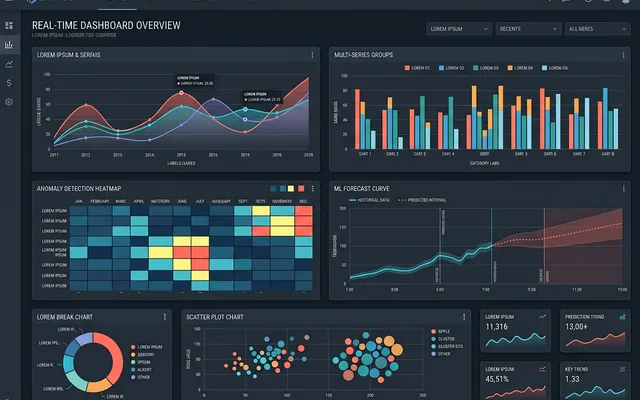
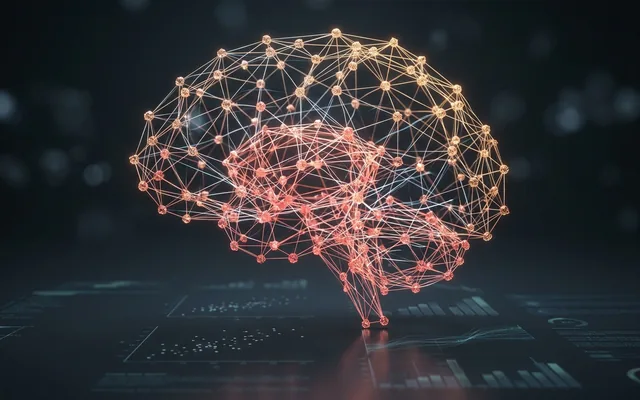
Add AI Solutions service with neural-network 3D object; exclude apps/
- New 'ai' service object (includes/service-objects.php): layered neural
  network — input/hidden/output nodes at staggered 3D depths, animated
  synapse web with traveling data pulses, pulsing AI core
- Index: featured full-width AI card with NEW badge + capability tags
- Services: 7th section 'AI Solutions & Automation' with full point list
- Footer: AI Solutions link added to services column
- Portfolio: 3 AI project images (FinSight, SmartBot, DataLens) replaced
  with neural-network style artwork in the brand palette
- Fix: objFloat now animates the independent 'translate' property so each
  service object's designed 3D rotation composes instead of being
  overridden (objects previously rendered front-facing/flat)
- Repo: apps/ (separate project) untracked and gitignored; sandbox-only
  dev toolchain gitignored under .dev-tools/

diff --git a/css/style.css b/css/style.css
@@ -998,6 +998,36 @@ html.no-js .services-net{display:none}
 }
 .svc-more:hover{gap:.65rem;filter:brightness(1.15)}
 
+/* — Featured AI card (index services grid) — */
+.svc-card.svc-ai-wide{
+  grid-column:1/-1;
+  display:grid;grid-template-columns:minmax(230px,300px) 1fr;gap:2rem;align-items:center;
+  padding:2.1rem 2.4rem;
+  background:linear-gradient(120deg,rgba(255,77,62,.1),rgba(255,150,72,.06) 52%,var(--glass));
+  border-color:rgba(255,122,92,.42);
+}
+.svc-card.svc-ai-wide::before{opacity:.75}
+.svc-ai-wide .svc-obj{margin:0;height:190px}
+.svc-ai-badge{
+  display:inline-block;vertical-align:.22em;margin-left:.45rem;
+  font-size:.58rem;font-weight:800;letter-spacing:.14em;text-transform:uppercase;
+  padding:.26rem .6rem;border-radius:100px;
+  background:linear-gradient(135deg,rgba(255,77,62,.25),rgba(255,182,72,.18));
+  border:1px solid rgba(255,122,92,.5);
+  -webkit-text-fill-color:var(--or-l);color:var(--or-l);
+  box-shadow:0 0 18px rgba(255,77,62,.25);
+}
+.svc-ai-tags{display:flex;gap:.5rem;flex-wrap:wrap;margin:.9rem 0 .2rem}
+.svc-ai-tags span{
+  font-size:.72rem;font-weight:600;padding:.3rem .75rem;border-radius:100px;
+  border:1px solid rgba(255,122,92,.32);color:var(--t2);background:rgba(255,77,62,.07);
+}
+@media(max-width:900px){
+  .svc-card.svc-ai-wide{grid-template-columns:1fr;text-align:center;padding:1.7rem 1.4rem}
+  .svc-ai-wide .svc-obj{height:150px}
+  .svc-ai-tags{justify-content:center}
+}
+
 /* ================================================================
    CSS-3D SERVICE OBJECTS (built in PHP, animated in CSS/JS)
    Each service has a distinct miniature 3D installation.
@@ -1012,7 +1042,9 @@ html.no-js .services-net{display:none}
   transform-style:preserve-3d;
 }
 .svc-obj .o3d>*{animation:objFloat 6s ease-in-out infinite}
-@keyframes objFloat{0%,100%{transform:translateY(0)}50%{transform:translateY(-7px)}}
+/* floats use the independent `translate` property so each object's own
+   3D rotation (`transform`) composes instead of being overridden */
+@keyframes objFloat{0%,100%{translate:0 0}50%{translate:0 -7px}}
 
 /* — Browser object (Web Development) — */
 .b3d{
@@ -1281,6 +1313,83 @@ html.no-js .services-net{display:none}
 }
 .svc-card:hover .shop3d{transform:rotateY(-7deg) rotateX(2deg) translateY(-4px)}
 .svc-card:hover .shop3d .sgrid i.on{transform:translateZ(22px)}
+
+/* — Neural network object (AI Solutions) — */
+.nn3d{
+  position:relative;width:150px;height:120px;
+  transform:rotateY(-18deg) rotateX(8deg);
+  transform-style:preserve-3d;
+  transition:transform .6s var(--te);
+}
+.nn3d .nn-core{
+  position:absolute;left:75px;top:60px;width:74px;height:74px;margin:-37px 0 0 -37px;
+  border-radius:50%;
+  background:radial-gradient(circle,rgba(255,122,92,.32) 0%,rgba(255,77,62,.1) 42%,transparent 70%);
+  filter:blur(1px);
+  animation:nnPulse 3.2s ease-in-out infinite;
+}
+.nn3d .nn-core::before,
+.nn3d .nn-core::after{
+  content:'';position:absolute;inset:-10px;border-radius:50%;
+  border:1px solid rgba(255,122,92,.35);
+  animation:nnRing 3.2s ease-out infinite;
+}
+.nn3d .nn-core::after{animation-delay:1.6s}
+@keyframes nnRing{from{transform:scale(.55);opacity:.9}to{transform:scale(1.7);opacity:0}}
+@keyframes nnPulse{0%,100%{opacity:.75}50%{opacity:1}}
+.nn3d .nn-web{position:absolute;inset:0;width:100%;height:100%;overflow:visible}
+.nn3d .nn-web line{
+  stroke:rgba(255,122,92,.2);stroke-width:1;
+  animation:nnNodeIn .9s ease both .2s;
+}
+.nn3d .nn-web line.hot{
+  stroke:url(#nnGrad);stroke-width:1.4;
+  stroke-dasharray:6 144;
+  animation:nnFlow 3s linear infinite;
+  filter:drop-shadow(0 0 3px rgba(255,122,92,.55));
+}
+@keyframes nnFlow{to{stroke-dashoffset:-150}}
+.nn3d .nn-node{
+  position:absolute;width:12px;height:12px;border-radius:50%;
+  background:radial-gradient(circle at 35% 35%,#ffd98a,var(--or));
+  border:1px solid rgba(255,182,72,.6);
+  box-shadow:0 0 12px rgba(255,77,62,.65),0 4px 10px rgba(0,0,0,.5);
+  animation:nnNodeIn .6s ease both;
+}
+@keyframes nnNodeIn{from{opacity:0;filter:brightness(2.6)}to{opacity:1;filter:brightness(1)}}
+.nn3d .nn-node.in1{left:10px;top:16px;transform:translateZ(8px);animation-delay:.15s}
+.nn3d .nn-node.in2{left:10px;top:54px;transform:translateZ(8px);animation-delay:.25s}
+.nn3d .nn-node.in3{left:10px;top:92px;transform:translateZ(8px);animation-delay:.35s}
+.nn3d .nn-node.h1,.nn3d .nn-node.h2,.nn3d .nn-node.h3,.nn3d .nn-node.h4{
+  width:17px;height:17px;margin:-2.5px 0 0 -2.5px;
+  background:radial-gradient(circle at 35% 35%,#ffe9c4,#ff8a5c);
+  border-color:rgba(255,138,92,.75);
+  box-shadow:0 0 18px rgba(255,77,62,.8),0 0 34px rgba(255,182,72,.25);
+  transform:translateZ(22px);
+  animation-delay:.45s;
+}
+.nn3d .nn-node.h1{left:67px;top:6px}
+.nn3d .nn-node.h2{left:67px;top:37px}
+.nn3d .nn-node.h3{left:67px;top:67px}
+.nn3d .nn-node.h4{left:67px;top:98px}
+.nn3d .nn-node.o1,.nn3d .nn-node.o2{
+  background:radial-gradient(circle at 35% 35%,#fff3dd,#ffb648);
+  border-color:rgba(255,182,72,.8);
+  box-shadow:0 0 16px rgba(255,182,72,.85),0 4px 10px rgba(0,0,0,.5);
+  transform:translateZ(36px);
+  animation-delay:.6s;
+}
+.nn3d .nn-node.o1{left:128px;top:30px}
+.nn3d .nn-node.o2{left:128px;top:78px}
+.nn3d .nn-node.h2,.nn3d .nn-node.o1{animation:nnNodeIn .6s ease both .45s,nnBlink 4s ease-in-out infinite 1.4s}
+.nn3d .nn-node.h4,.nn3d .nn-node.o2{animation:nnNodeIn .6s ease both .55s,nnBlink 4s ease-in-out infinite 2.6s}
+@keyframes nnBlink{0%,100%{filter:brightness(1)}50%{filter:brightness(1.75)}}
+.svc-card:hover .nn3d,.svc-figure:hover .nn3d{transform:rotateY(-9deg) rotateX(3deg)}
+.svc-card:hover .nn3d .nn-node,.svc-figure:hover .nn3d .nn-node{filter:brightness(1.5)}
+.svc-card:hover .nn3d .nn-node.h1,.svc-card:hover .nn3d .nn-node.h2,
+.svc-card:hover .nn3d .nn-node.h3,.svc-card:hover .nn3d .nn-node.h4,
+.svc-figure:hover .nn3d .nn-node.h1,.svc-figure:hover .nn3d .nn-node.h2,
+.svc-figure:hover .nn3d .nn-node.h3,.svc-figure:hover .nn3d .nn-node.h4{transform:translateZ(30px)}
 
 /* ================================================================
    PORTFOLIO — floating 3D project displays

diff --git a/services.php b/services.php
@@ -27,9 +27,13 @@ $services = [
    'desc'=>'Data-driven SEO and digital marketing campaigns that drive qualified traffic and deliver measurable ROI. We combine technical expertise with content strategy across all digital channels.',
    'points'=>['Technical & on-page SEO audits','Content strategy & creation','Google Ads & PPC management','Social media strategy & management','Monthly performance reporting']],
 
-  ['id'=>'shopify',  'obj'=>'shopify',  'icon'=>'🎨','title'=>'Shopify &amp; UI/UX Design',
+  ['id'=>'shopify',  'obj'=>'shopify', 'icon'=>'🎨','title'=>'Shopify &amp; UI/UX Design',
    'desc'=>'Expert Shopify development and user-centred design that blends aesthetics with functionality — intuitive interfaces that delight users and strengthen your brand at every touchpoint.',
    'points'=>['Custom Shopify themes & apps','Shopify Plus development','User research & persona mapping','Wireframing & interactive prototypes','Design systems & brand consistency']],
+
+  ['id'=>'ai',       'obj'=>'ai',      'icon'=>'🤖','title'=>'AI Solutions &amp; Automation',
+   'desc'=>'Intelligent systems that learn from your data and work alongside your team. From conversational chatbots and predictive analytics to computer vision and workflow automation — we design, train and deploy custom AI models that integrate natively with your products.',
+   'points'=>['AI chatbots & conversational NLP','Predictive analytics & forecasting','Computer vision & document processing','Custom ML model development','Workflow automation & AI integration']],
 ];
 ?>
 
@@ -44,7 +48,7 @@ $services = [
       <nav class="breadcrumb"><a href="index.php">Home</a><span class="sep"> › </span><span>Services</span></nav>
       <div class="eyebrow" style="margin:0 auto 1rem"><i class="fas fa-cogs"></i> What We Do</div>
       <h1 class="h1" style="margin-bottom:1rem">Our <span class="gradient-text">Services</span></h1>
-      <p class="lead" style="margin:0 auto">End-to-end digital solutions — from beautiful websites to enterprise software and e-commerce stores that convert.</p>
+      <p class="lead" style="margin:0 auto">End-to-end digital solutions — from beautiful websites to enterprise software, e-commerce stores and custom AI systems that convert.</p>
     </div>
   </div>
 </section>

diff --git a/includes/service-objects.php b/includes/service-objects.php
@@ -99,6 +99,33 @@ if (!function_exists('render_service_object')) {
            . '<div class="sbar"></div>'
            . '</div>';
         break;
+
+      /* ── AI Solutions — layered neural network ───────────── */
+      case 'ai':
+        echo '<div class="nn3d">'
+           . '<div class="nn-core" aria-hidden="true"></div>'
+           . '<svg class="nn-web" viewBox="0 0 150 120" preserveAspectRatio="none" aria-hidden="true">'
+           . '<defs><linearGradient id="nnGrad" x1="0" y1="0" x2="1" y2="0">'
+           . '<stop offset="0" stop-color="#ff4d3e"/><stop offset="1" stop-color="#ffb648"/>'
+           . '</linearGradient></defs>'
+           /* input → hidden */
+           . '<line x1="16" y1="22" x2="75" y2="14"/><line x1="16" y1="22" x2="75" y2="45"/>'
+           . '<line x1="16" y1="22" x2="75" y2="75" class="hot"/><line x1="16" y1="22" x2="75" y2="106"/>'
+           . '<line x1="16" y1="60" x2="75" y2="14"/><line x1="16" y1="60" x2="75" y2="45" class="hot"/>'
+           . '<line x1="16" y1="60" x2="75" y2="75"/><line x1="16" y1="60" x2="75" y2="106"/>'
+           . '<line x1="16" y1="98" x2="75" y2="14"/><line x1="16" y1="98" x2="75" y2="45"/>'
+           . '<line x1="16" y1="98" x2="75" y2="75"/><line x1="16" y1="98" x2="75" y2="106" class="hot"/>'
+           /* hidden → output */
+           . '<line x1="75" y1="14" x2="134" y2="36"/><line x1="75" y1="14" x2="134" y2="84"/>'
+           . '<line x1="75" y1="45" x2="134" y2="36" class="hot"/><line x1="75" y1="45" x2="134" y2="84"/>'
+           . '<line x1="75" y1="75" x2="134" y2="36"/><line x1="75" y1="75" x2="134" y2="84" class="hot"/>'
+           . '<line x1="75" y1="106" x2="134" y2="36"/><line x1="75" y1="106" x2="134" y2="84"/>'
+           . '</svg>'
+           . '<span class="nn-node in1"></span><span class="nn-node in2"></span><span class="nn-node in3"></span>'
+           . '<span class="nn-node h1"></span><span class="nn-node h2"></span><span class="nn-node h3"></span><span class="nn-node h4"></span>'
+           . '<span class="nn-node o1"></span><span class="nn-node o2"></span>'
+           . '</div>';
+        break;
     }
 
     echo '</div></div>';

diff --git a/index.php b/index.php
@@ -221,6 +221,22 @@ require_once 'includes/service-objects.php';
         <a href="services.php#<?= $obj ?>" class="svc-more">Learn more <i class="fas fa-arrow-right"></i></a>
       </div>
       <?php endforeach; ?>
+
+      <?php /* Featured AI card — full-width highlight with the neural-network object */ ?>
+      <div class="svc-card svc-ai-wide" data-tilt data-tilt-max="3" data-reveal data-delay="2">
+        <div class="svc-glow" aria-hidden="true"></div>
+        <div class="svc-ai-obj">
+          <?php render_service_object('ai'); ?>
+        </div>
+        <div class="svc-ai-text">
+          <h3 class="svc-title">AI Solutions &amp; Automation <span class="svc-ai-badge">New</span></h3>
+          <p class="svc-desc">Intelligent systems that learn from your data — conversational chatbots, predictive analytics, computer vision and custom machine-learning models, integrated natively into the products we build for you.</p>
+          <div class="svc-ai-tags" aria-label="AI capabilities">
+            <span>Chatbots &amp; NLP</span><span>Predictive Analytics</span><span>Computer Vision</span><span>Process Automation</span>
+          </div>
+          <a href="services.php#ai" class="svc-more">Explore AI solutions <i class="fas fa-arrow-right"></i></a>
+        </div>
+      </div>
     </div>
   </div>
 </section>

diff --git a/includes/footer.php b/includes/footer.php
@@ -80,6 +80,7 @@
           <li><a href="services.php#ecommerce"><i class="fas fa-chevron-right" style="font-size:.55rem;color:var(--or)"></i> E-Commerce Solutions</a></li>
           <li><a href="services.php#seo"><i class="fas fa-chevron-right" style="font-size:.55rem;color:var(--or)"></i> SEO &amp; Marketing</a></li>
           <li><a href="services.php#shopify"><i class="fas fa-chevron-right" style="font-size:.55rem;color:var(--or)"></i> Shopify Development</a></li>
+          <li><a href="services.php#ai"><i class="fas fa-chevron-right" style="font-size:.55rem;color:var(--or)"></i> AI Solutions</a></li>
         </ul>
       </div>
 
